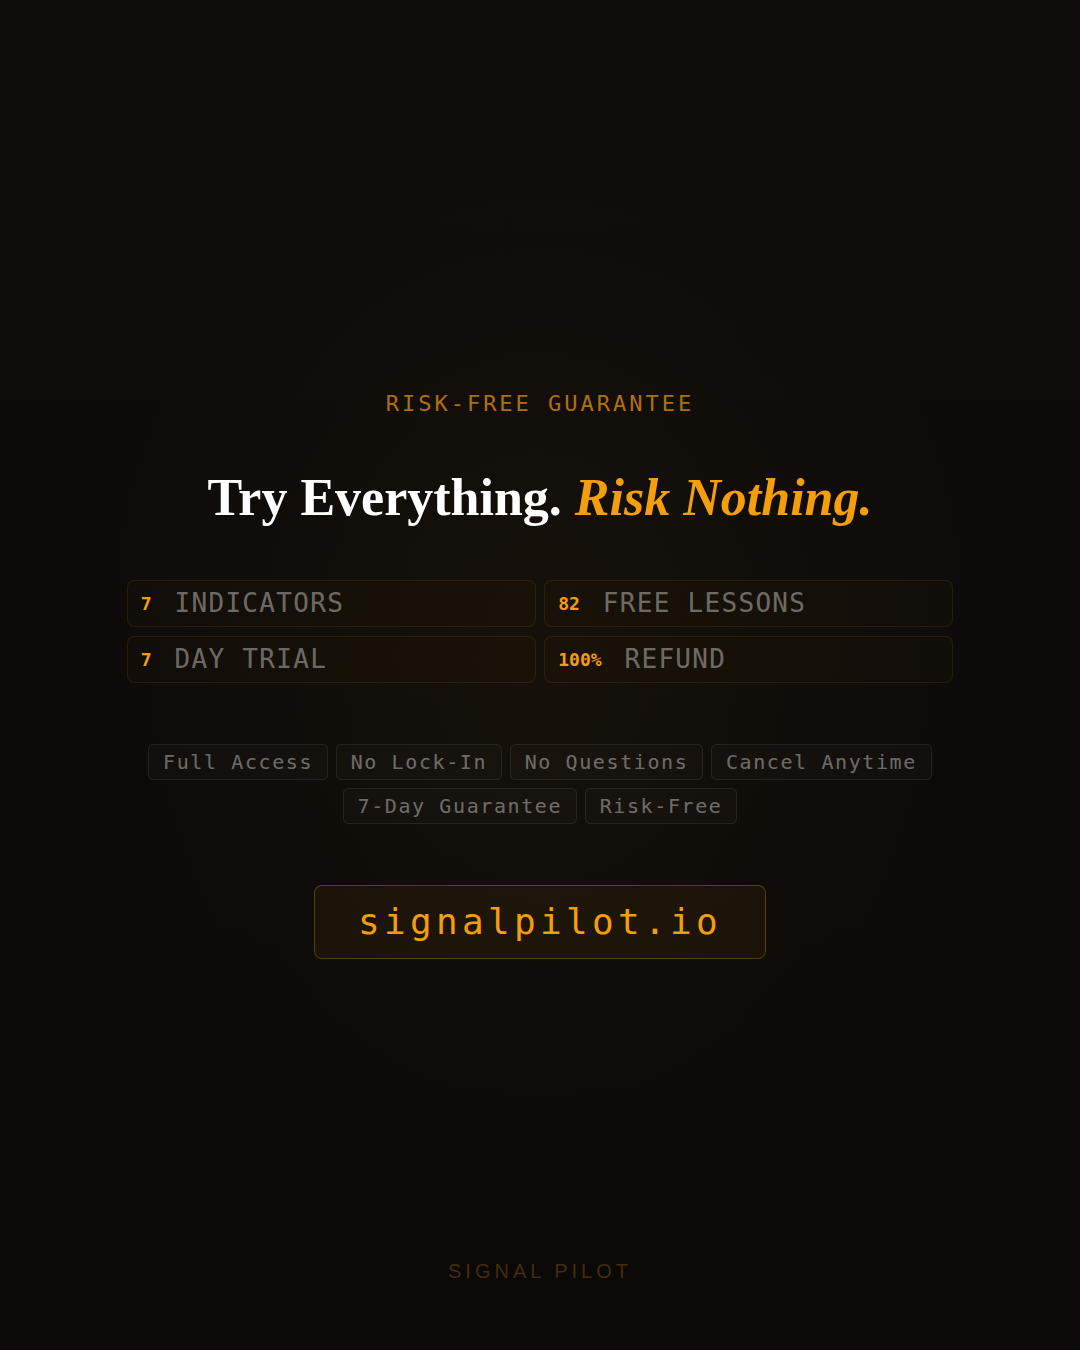
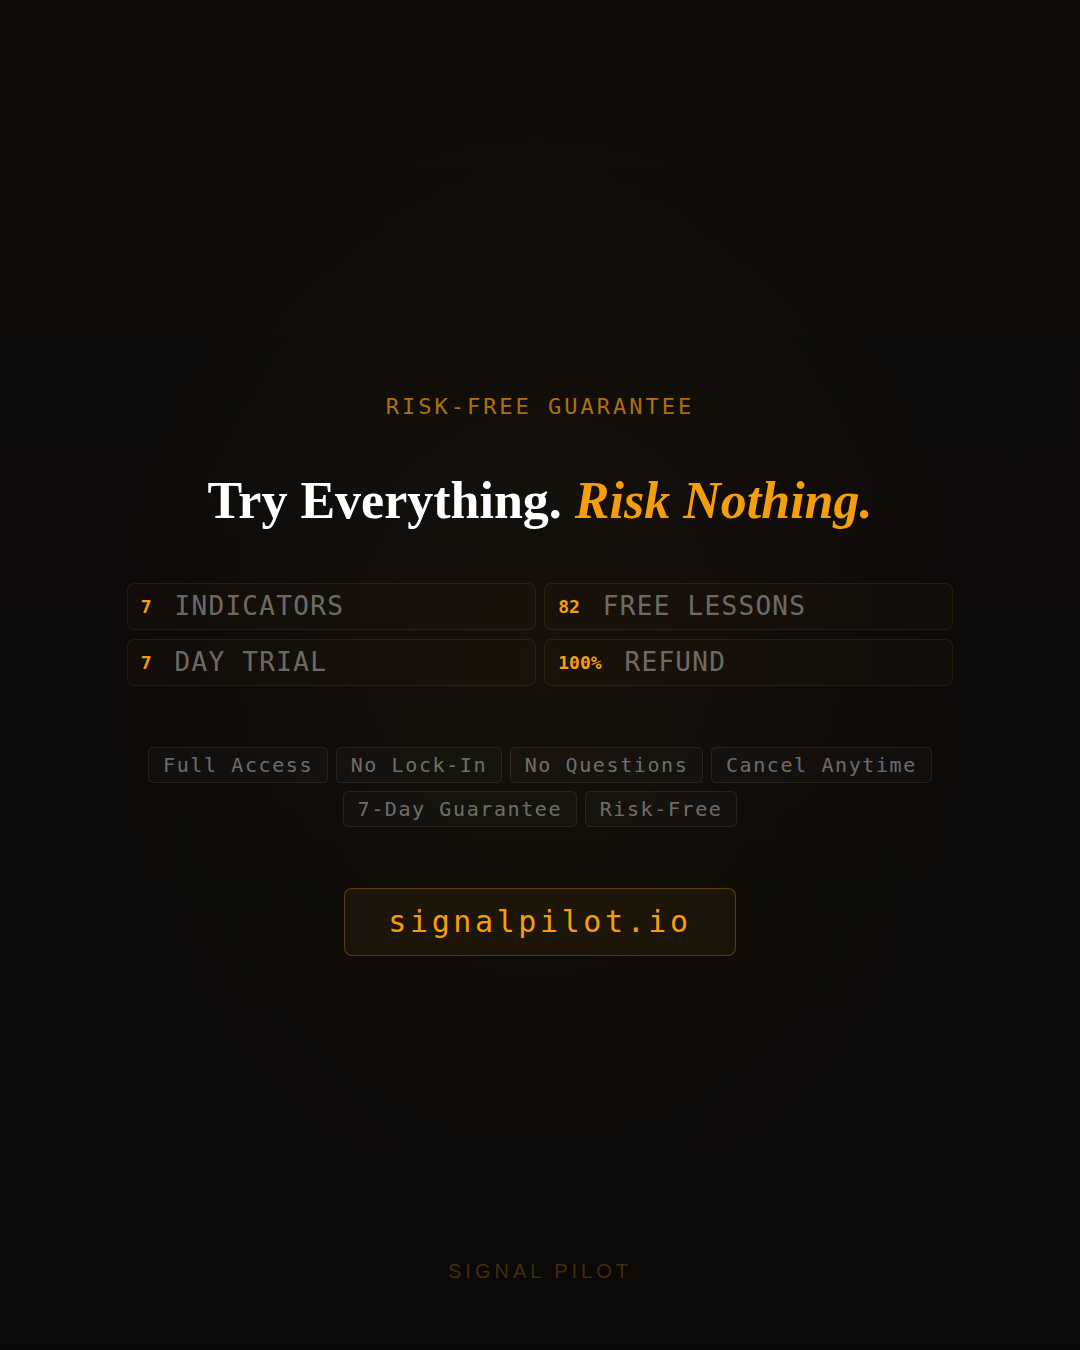
fix overflow: dial back renderer upscaling to balanced readable sizes
- Scaled back aggressive max caps that caused text overflow on dense slides
- Sweet spot: titles ~28px, descriptions ~22px, labels ~18px at 1080px
- All slides now fit cleanly with readable text, no content cut off

https://claude.ai/code/session_01JdAyDtW3X2RhJAyPJGnP6R

diff --git a/scripts/render-carousels.js b/scripts/render-carousels.js
@@ -389,35 +389,35 @@ async function renderCarousel(page, postDir, postNumber) {
 
       /* --- Definition cards --- */
       .def-label {
-        font-size: clamp(16px, 4cqw, 26px) !important;
+        font-size: clamp(14px, 3.5cqw, 22px) !important;
         letter-spacing: 2px !important;
       }
       .def-quote {
-        font-size: clamp(22px, 5.5cqw, 34px) !important;
+        font-size: clamp(20px, 5cqw, 28px) !important;
       }
       .def-text {
-        font-size: clamp(20px, 5cqw, 32px) !important;
-        line-height: 1.5 !important;
+        font-size: clamp(18px, 4.5cqw, 26px) !important;
+        line-height: 1.45 !important;
       }
 
       /* --- Factor / feature cards (2x2 / 2x3 grids) --- */
       .factor-card .fc-name {
-        font-size: clamp(24px, 6cqw, 38px) !important;
+        font-size: clamp(20px, 5cqw, 28px) !important;
       }
       .factor-card .fc-desc {
-        font-size: clamp(18px, 4.5cqw, 32px) !important;
-        line-height: 1.5 !important;
+        font-size: clamp(16px, 4cqw, 22px) !important;
+        line-height: 1.45 !important;
       }
       .factor-card .fc-tag {
-        font-size: clamp(14px, 3.5cqw, 24px) !important;
-        padding: 5px 14px !important;
+        font-size: clamp(12px, 3cqw, 18px) !important;
+        padding: 4px 12px !important;
       }
       .factor-card .fc-let {
-        font-size: clamp(20px, 5cqw, 32px) !important;
+        font-size: clamp(18px, 4.5cqw, 26px) !important;
       }
       .factor-card .fc-icon {
-        width: clamp(36px, 7cqw, 52px) !important;
-        height: clamp(36px, 7cqw, 52px) !important;
+        width: clamp(32px, 6cqw, 48px) !important;
+        height: clamp(32px, 6cqw, 48px) !important;
       }
 
       /* --- Comparison cards --- */
@@ -435,31 +435,31 @@ async function renderCarousel(page, postDir, postNumber) {
 
       /* --- Truth cards --- */
       .truth-card .tc-title {
-        font-size: clamp(22px, 5.5cqw, 36px) !important;
+        font-size: clamp(20px, 5cqw, 28px) !important;
       }
       .truth-card .tc-desc {
-        font-size: clamp(18px, 4.5cqw, 32px) !important;
-        line-height: 1.5 !important;
+        font-size: clamp(16px, 4cqw, 22px) !important;
+        line-height: 1.45 !important;
       }
       .truth-quote {
-        font-size: clamp(28px, 7cqw, 44px) !important;
+        font-size: clamp(26px, 6.5cqw, 38px) !important;
         line-height: 1.5 !important;
       }
 
       /* --- Step flow --- */
       .step-name {
-        font-size: clamp(22px, 5.5cqw, 36px) !important;
+        font-size: clamp(20px, 5cqw, 28px) !important;
       }
       .step-desc {
-        font-size: clamp(18px, 4.5cqw, 32px) !important;
-        line-height: 1.5 !important;
+        font-size: clamp(16px, 4cqw, 22px) !important;
+        line-height: 1.45 !important;
       }
       .step-ring .s-num {
-        font-size: clamp(22px, 5.5cqw, 34px) !important;
+        font-size: clamp(20px, 5cqw, 28px) !important;
       }
       .step-ring {
-        width: clamp(40px, 8cqw, 58px) !important;
-        height: clamp(40px, 8cqw, 58px) !important;
+        width: clamp(36px, 7cqw, 52px) !important;
+        height: clamp(36px, 7cqw, 52px) !important;
       }
 
       /* --- Icon circles --- */
@@ -477,8 +477,8 @@ async function renderCarousel(page, postDir, postNumber) {
         letter-spacing: 2px !important;
       }
       .warn-text, .alert-text, .insight-text {
-        font-size: clamp(20px, 5cqw, 32px) !important;
-        line-height: 1.55 !important;
+        font-size: clamp(18px, 4.5cqw, 26px) !important;
+        line-height: 1.5 !important;
       }
 
       /* --- Info boxes --- */
@@ -494,8 +494,8 @@ async function renderCarousel(page, postDir, postNumber) {
         color: rgba(94,234,212,0.9) !important;
       }
       .info-text {
-        font-size: clamp(20px, 5cqw, 32px) !important;
-        line-height: 1.6 !important;
+        font-size: clamp(18px, 4.5cqw, 26px) !important;
+        line-height: 1.5 !important;
         color: var(--txt) !important;
       }
 
@@ -514,31 +514,31 @@ async function renderCarousel(page, postDir, postNumber) {
 
       /* --- CTA slide elements --- */
       .cta-sub {
-        font-size: clamp(24px, 6cqw, 36px) !important;
+        font-size: clamp(22px, 5.5cqw, 32px) !important;
         line-height: 1.5 !important;
       }
       .stat-cell .sv {
-        font-size: clamp(32px, 8cqw, 50px) !important;
+        font-size: clamp(28px, 7cqw, 42px) !important;
       }
       .stat-cell .sl {
-        font-size: clamp(16px, 4cqw, 26px) !important;
+        font-size: clamp(14px, 3.5cqw, 20px) !important;
       }
       .pill {
-        font-size: clamp(16px, 4cqw, 24px) !important;
-        padding: 6px 16px !important;
+        font-size: clamp(14px, 3.5cqw, 20px) !important;
+        padding: 5px 14px !important;
       }
       .cta-url {
-        font-size: clamp(24px, 6cqw, 36px) !important;
+        font-size: clamp(22px, 5.5cqw, 30px) !important;
       }
       .cta-hint {
-        font-size: clamp(18px, 4.5cqw, 28px) !important;
+        font-size: clamp(16px, 4cqw, 22px) !important;
       }
       .cta-url-main {
-        font-size: clamp(24px, 6cqw, 36px) !important;
+        font-size: clamp(22px, 5.5cqw, 30px) !important;
       }
       .cta-badge-pill {
-        font-size: clamp(16px, 4cqw, 24px) !important;
-        padding: 6px 18px !important;
+        font-size: clamp(14px, 3.5cqw, 20px) !important;
+        padding: 5px 14px !important;
       }
 
       /* --- Divergence visual elements --- */
@@ -893,14 +893,14 @@ async function renderCarousel(page, postDir, postNumber) {
 
       /* --- Step Flow (post-047 pattern) --- */
       .step-name {
-        font-size: clamp(22px, 5.5cqw, 36px) !important;
+        font-size: clamp(20px, 5cqw, 28px) !important;
       }
       .step-desc {
-        font-size: clamp(18px, 4.5cqw, 32px) !important;
-        line-height: 1.5 !important;
+        font-size: clamp(16px, 4cqw, 22px) !important;
+        line-height: 1.45 !important;
       }
       .step-ring .s-num {
-        font-size: clamp(22px, 5.5cqw, 34px) !important;
+        font-size: clamp(20px, 5cqw, 28px) !important;
       }
       .step-row {
         padding: clamp(14px, 2.8cqw, 24px) clamp(12px, 2.5cqw, 20px) !important;
@@ -1507,22 +1507,22 @@ async function renderCarousel(page, postDir, postNumber) {
 
       /* ===== Old Architecture — feature cards (post-045/050) ===== */
       .feature-text {
-        font-size: clamp(22px, 5.5cqw, 34px) !important;
+        font-size: clamp(18px, 4.5cqw, 26px) !important;
         font-weight: 600 !important;
       }
       .feature-desc {
-        font-size: clamp(18px, 4.5cqw, 30px) !important;
-        line-height: 1.5 !important;
+        font-size: clamp(16px, 4cqw, 22px) !important;
+        line-height: 1.45 !important;
       }
       .feature-ic, .fic-letter {
-        min-width: clamp(36px, 7cqw, 52px) !important;
-        min-height: clamp(36px, 7cqw, 52px) !important;
+        min-width: clamp(32px, 6cqw, 44px) !important;
+        min-height: clamp(32px, 6cqw, 44px) !important;
       }
       .fic-letter {
-        font-size: clamp(20px, 5cqw, 30px) !important;
+        font-size: clamp(18px, 4.5cqw, 26px) !important;
       }
       .inner-heading {
-        font-size: clamp(36px, 8cqw, 56px) !important;
+        font-size: clamp(32px, 7cqw, 48px) !important;
       }
       .indicator-bar {
         height: clamp(5px, 1cqw, 8px) !important;
@@ -1530,26 +1530,26 @@ async function renderCarousel(page, postDir, postNumber) {
 
       /* ===== Old Architecture — definition cards (post-045/050 slide 2/3) ===== */
       .def-name {
-        font-size: clamp(22px, 5.5cqw, 34px) !important;
+        font-size: clamp(20px, 5cqw, 28px) !important;
         font-weight: 600 !important;
       }
       .def-tag {
-        font-size: clamp(14px, 3.5cqw, 22px) !important;
+        font-size: clamp(13px, 3.2cqw, 18px) !important;
         letter-spacing: 2px !important;
       }
       .def-desc {
-        font-size: clamp(18px, 4.5cqw, 30px) !important;
-        line-height: 1.5 !important;
+        font-size: clamp(16px, 4cqw, 22px) !important;
+        line-height: 1.45 !important;
       }
 
       /* ===== Old Architecture — access cards (post-051) ===== */
       .access-name {
-        font-size: clamp(22px, 5.5cqw, 34px) !important;
+        font-size: clamp(20px, 5cqw, 28px) !important;
         font-weight: 600 !important;
       }
       .access-desc {
-        font-size: clamp(18px, 4.5cqw, 30px) !important;
-        line-height: 1.5 !important;
+        font-size: clamp(16px, 4cqw, 22px) !important;
+        line-height: 1.45 !important;
       }
       .access-bar {
         height: clamp(4px, 0.8cqw, 8px) !important;
@@ -1557,32 +1557,32 @@ async function renderCarousel(page, postDir, postNumber) {
 
       /* ===== Old Architecture — promise / philosophy (post-051) ===== */
       .promise-card-title {
-        font-size: clamp(22px, 5.5cqw, 34px) !important;
+        font-size: clamp(20px, 5cqw, 28px) !important;
         font-weight: 600 !important;
       }
       .promise-card-text {
-        font-size: clamp(18px, 4.5cqw, 30px) !important;
-        line-height: 1.5 !important;
+        font-size: clamp(16px, 4cqw, 22px) !important;
+        line-height: 1.45 !important;
       }
       .philosophy-text {
-        font-size: clamp(24px, 6cqw, 38px) !important;
+        font-size: clamp(22px, 5.5cqw, 32px) !important;
         line-height: 1.5 !important;
       }
 
       /* ===== Old Architecture — stat pills ===== */
       .stat-pill .stat-val {
-        font-size: clamp(28px, 7cqw, 42px) !important;
+        font-size: clamp(24px, 6cqw, 36px) !important;
         font-weight: 600 !important;
       }
       .stat-pill .stat-label {
-        font-size: clamp(16px, 4cqw, 26px) !important;
+        font-size: clamp(14px, 3.5cqw, 20px) !important;
       }
       .cta-stat-val {
-        font-size: clamp(28px, 7cqw, 42px) !important;
+        font-size: clamp(24px, 6cqw, 36px) !important;
         font-weight: 600 !important;
       }
       .cta-stat-label {
-        font-size: clamp(14px, 3.5cqw, 22px) !important;
+        font-size: clamp(13px, 3.2cqw, 18px) !important;
       }
     </style>
   `;
